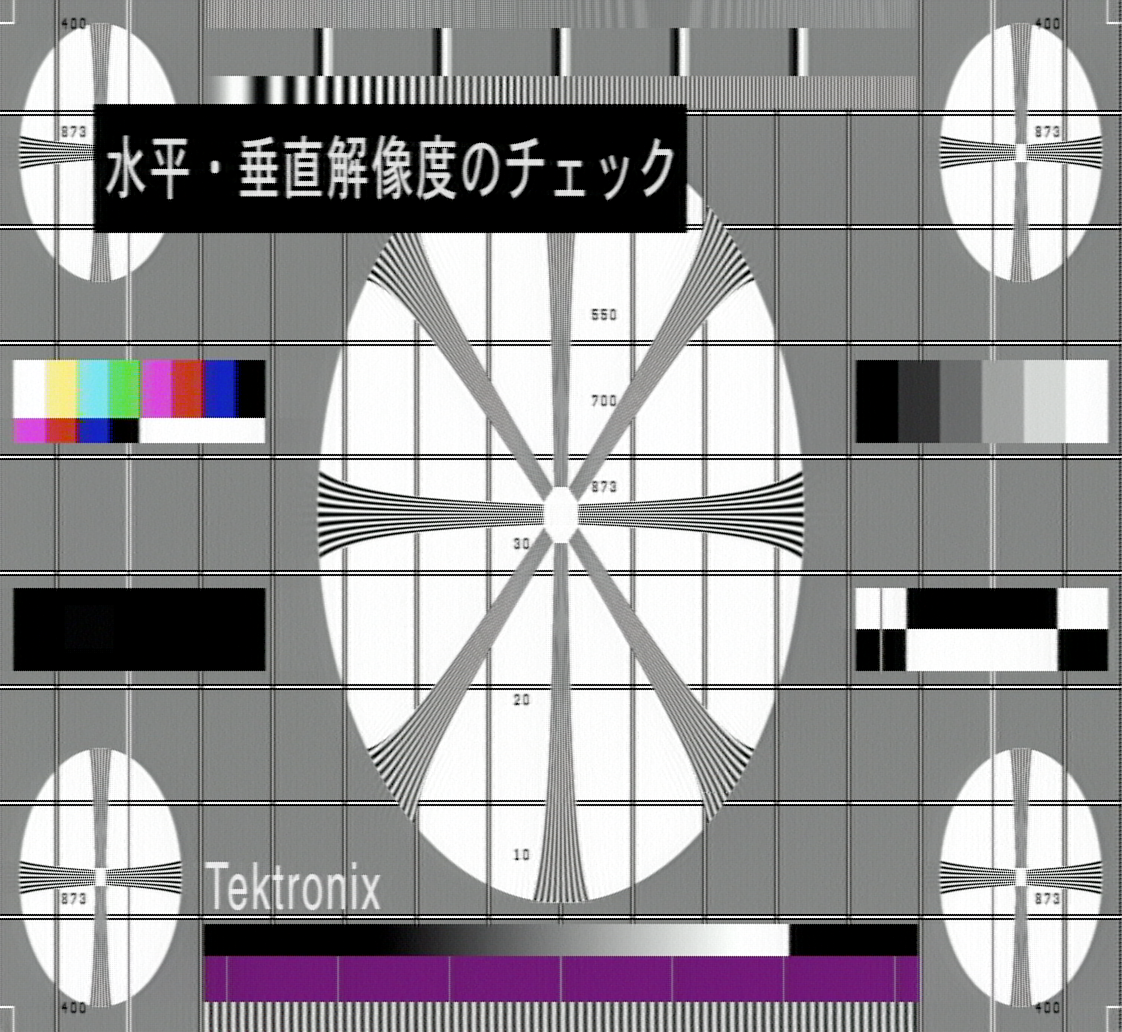
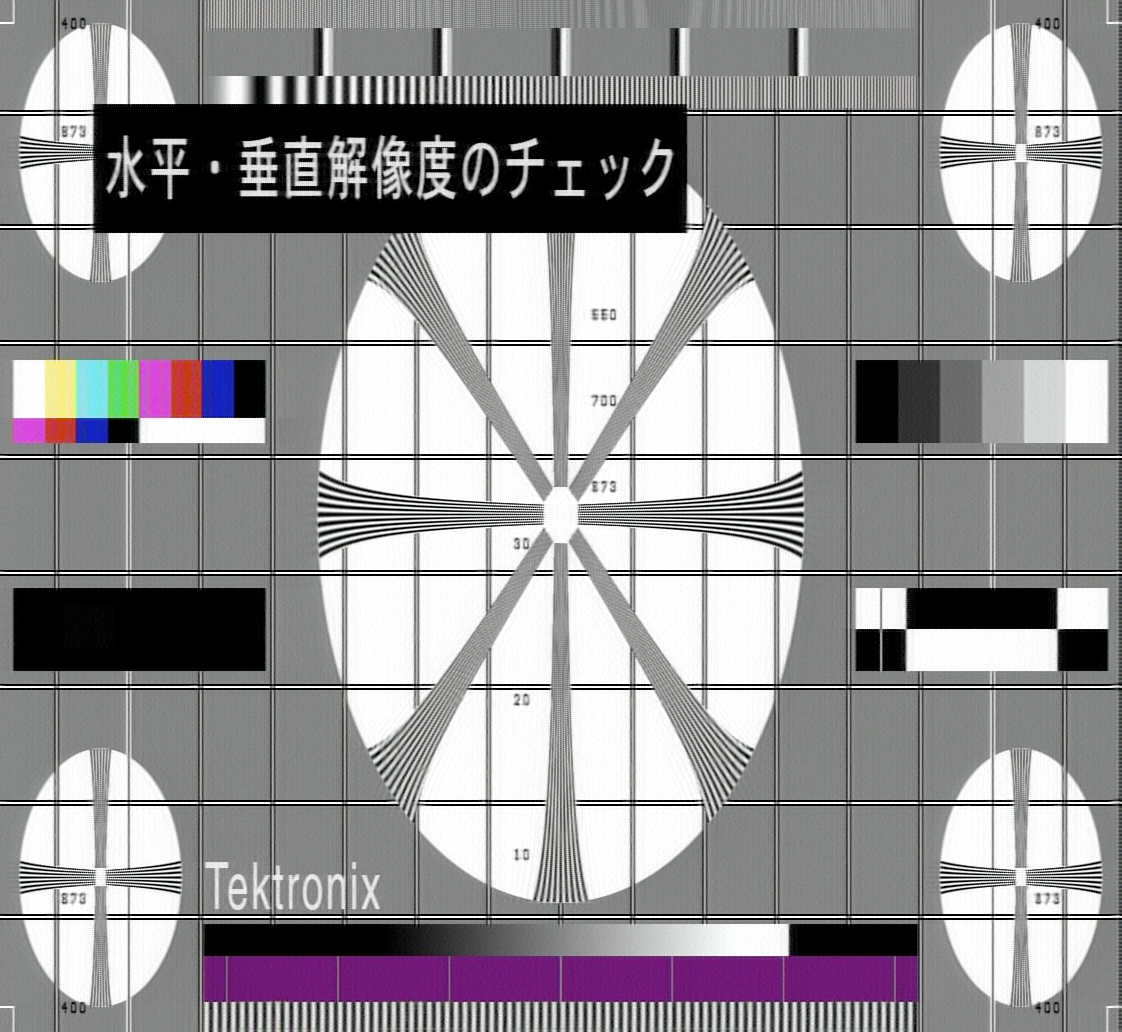
docs: the test picture re-exported with the current decoder (the Sony test disc's resolution chart at 6:08, the same frame as before: the colour edges now lie on their luma edges and the diagonal wedges alias less), and the player reference's quick start downloads the sample capture from where it is

diff --git a/docs/museld.md b/docs/museld.md
@@ -5,8 +5,8 @@
 Download a sample RF capture and play it:
 
 ```console
-wget --directory-prefix ../data/muse https://madeye.org/muse-demo/makeup-muse-rf-62.5MHz-nofilter.raw
-./player/build-release/src/museld ../data/muse/makeup-muse-rf-62.5MHz-nofilter.raw
+wget https://madeye.org/ld-captures/public/MUSE-sony-test-disc-makeup-62.5MHz.rf.s16
+./player/build-release/src/museld MUSE-sony-test-disc-makeup-62.5MHz.rf.s16
 ```
 
 ![MUSE test picture](../test-picture.png)
@@ -337,7 +337,7 @@ concealed white-on-black titles away as if they were dropouts.
 
 There is a lot of room between the two cases, so the thresholds are not a compromise: content
 takes the envelope down to about 0.16 of the local median at worst, while the real dropouts in
-`makeup-muse-rf-62.5MHz-nofilter.raw` (around 55.5–56.1 s) reach 0.0036. That capture is the one
+the quick start's sample capture (around 55.5–56.1 s) reach 0.0036. That capture is the one
 to reach for when working on dropout handling — it has a disc blemish that is struck once per
 revolution for about 18 frames.
 
